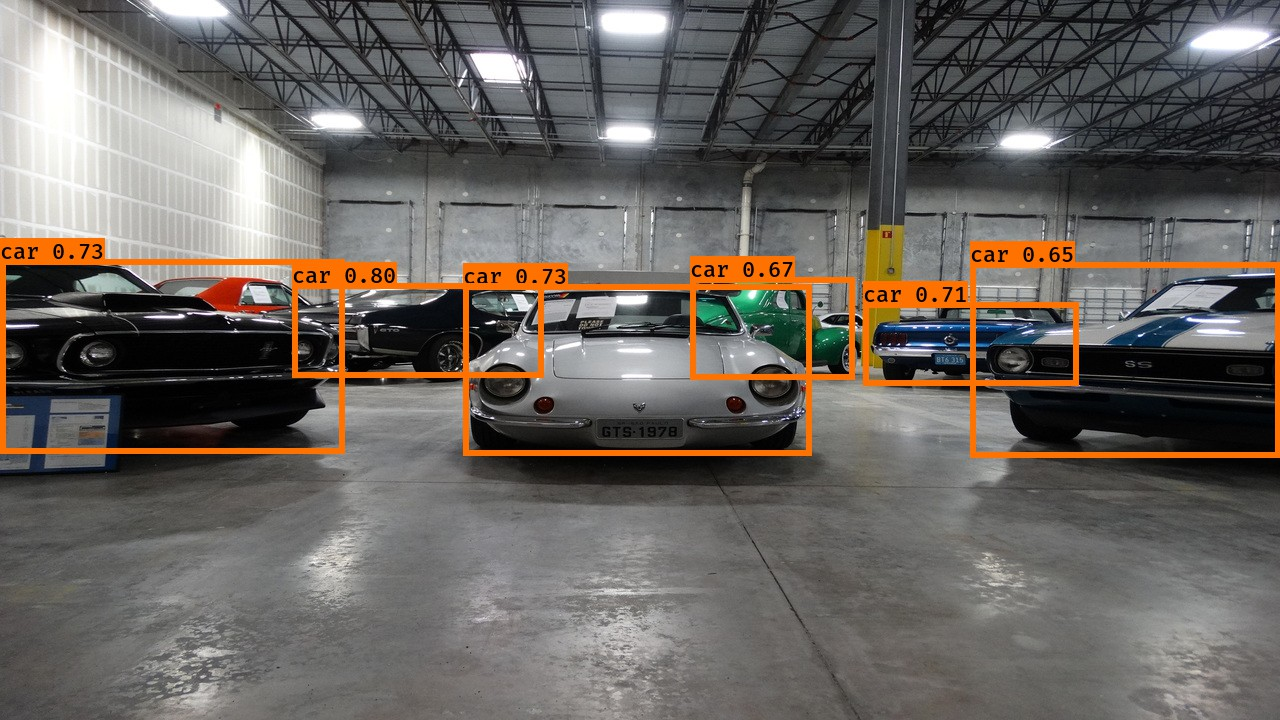
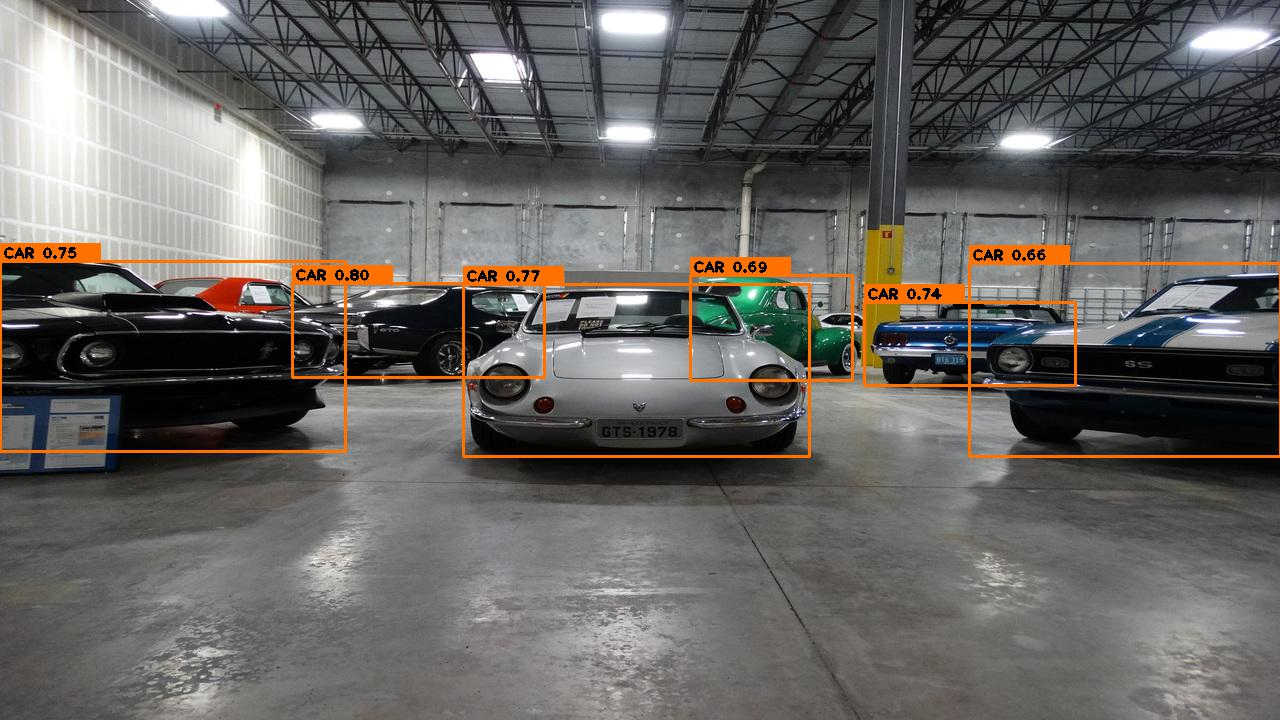
fixes cv2 image dims bug

Changed region(s): [[0.0, 0.3056, 1.0, 0.6417]]

diff --git a/main.py b/main.py
@@ -10,26 +10,18 @@ import numpy as np
 import tensorflow as tf
 import scipy.misc as misc
 
-from multiprocessing.dummy import Pool
-from PIL import Image, ImageDraw, ImageFont
-
 # local imports
 from utils import (
     read_classes, 
     read_anchors, 
-    generate_colors, 
-    preprocess_image, 
-    draw_boxes, 
+    generate_colors,
     scale_boxes
 )
 
 # imports from `yad2k` project
 from yad2k.models.keras_yolo import (
     yolo_head, 
-    yolo_boxes_to_corners, 
-    preprocess_true_boxes, 
-    yolo_loss, 
-    yolo_body
+    yolo_boxes_to_corners
 )
 
 @click.command()
@@ -93,33 +85,46 @@ def webcam_realtime_object_detector(yolo=None):
     
     while vc.isOpened():
         _, frame = vc.read()
-        image = frame
-        image  = yolo.run_yolo_detection(image)
-        key = cv2.waitKey(10)
-        cv2.imshow('detector', image)
+        frame  = yolo.run_yolo_detection(frame)
+        
+        key = cv2.waitKey(5)
+        cv2.imshow('detector', frame)
+
         if key == 27: # exit on ESC
             logging.info('exiting')
             break
+
     logging.info('destroying detector window')
     cv2.destroyWindow('detector')
 
-def draw_boxes_cv2(image, scores, boxes, classes, class_names):
+def draw_boxes_cv2(image, scores, boxes, classes, class_names, colors):
+    image_shape = list(reversed(image.shape[:-1]))
     for i, c in reversed(list(enumerate(classes))):
         predicted_class = class_names[c]
         box = boxes[i]
         score = scores[i]
         label = '{} {:.2f}'.format(predicted_class, score)
+        label = label.upper()
 
         top, left, bottom, right = box
         top = max(0, np.floor(top + 0.5).astype('int32'))
         left = max(0, np.floor(left + 0.5).astype('int32'))
-        bottom = min(image.shape[1], np.floor(bottom + 0.5).astype('int32'))
-        right = min(image.shape[0], np.floor(right + 0.5).astype('int32'))
+        bottom = min(image_shape[1], np.floor(bottom + 0.5).astype('int32'))
+        right = min(image_shape[0], np.floor(right + 0.5).astype('int32'))
         print(label, (left, top), (right, bottom))
+    
+        text_size = cv2.getTextSize(label, cv2.FONT_HERSHEY_PLAIN, 1.3, 1)
 
-        cv2.rectangle(image, (left, top), (right, bottom), (0, 0, 255), 2)
-        cv2.putText(image, label, 
-                (left, top - 10), cv2.FONT_HERSHEY_PLAIN, 1, (0, 0, 255), 2)
+        cv2.rectangle(image, (left, top), (right, bottom), colors[c], 2)
+        cv2.rectangle(image, (left, top - text_size[0][1] - 5), (left + text_size[0][0] + 3, top), colors[c], cv2.FILLED)
+        cv2.putText(image, label, (left + 3, top - 3), cv2.FONT_HERSHEY_PLAIN, 1, (0, 0, 0), 2)
+
+def preprocess_image_cv2(image, dims):
+    resized_image = cv2.resize(image, dims, interpolation=cv2.INTER_CUBIC)
+    image_data = np.array(resized_image, dtype='float32')
+    image_data /= 255.
+    image_data = np.expand_dims(image_data, 0)  # Add batch dimension.
+    return image_data
 
 class YOLO():
     """YOLOv2 real-time object detection using pre-trained model.
@@ -143,6 +148,7 @@ class YOLO():
         self._class_names = class_names
         self._anchors = anchors
         self._dims = dims
+        self._colors = generate_colors(self._class_names)
         self._sess = K.get_session()
         self._model_input_dims = (608, 608)
         self._construct_graph()
@@ -258,13 +264,9 @@ class YOLO():
         Args:
             image_path (str):
                 Path to image for detection.
-
-        Returns:
-            numpy.ndarray:
-                Output image data after detection
-                and drawing bounding boxes over it.
         """
-        image, image_data = preprocess_image(image_path, self._model_input_dims)
+        image = misc.imread(image_path)
+        image_data = preprocess_image_cv2(image, self._model_input_dims)
         # Run the session with the correct tensors and choose the correct placeholders in the feed_dict.
         # Need to use feed_dict={yolo_model.input: ... , K.learning_phase(): 0})
         out_scores, out_boxes, out_classes = self._sess.run([self._scores, self._boxes, self._classes], 
@@ -273,11 +275,8 @@ class YOLO():
         image_name = os.path.split(image_path)[-1]
         logging.info('Found {} objects belonging to known classes'.format(len(out_boxes)))
         
-        colors = generate_colors(self._class_names)
-        draw_boxes(image, out_scores, out_boxes, out_classes, self._class_names, colors)
-        image.save(os.path.join('images/out', image_name), quality=90)
-        
-        return image
+        draw_boxes_cv2(image, out_scores, out_boxes, out_classes, self._class_names, self._colors)
+        misc.imsave(os.path.join('images/out', image_name), image)
 
     def run_yolo_detection(self, frame):
         """Detects objects in real-time using YOLOv2.
@@ -292,18 +291,13 @@ class YOLO():
                 Output frame data after detection
                 and drawing bounding boxes over it.
         """
-        resized_image = cv2.resize(frame, self._model_input_dims, interpolation=cv2.INTER_CUBIC)
-        image_data = np.array(resized_image, dtype='float32')
-        image_data /= 255.
-        image_data = np.expand_dims(image_data, 0)  # Add batch dimension.
-        
+        image_data = preprocess_image_cv2(frame, self._model_input_dims)
         # Run the session with the correct tensors and choose the correct placeholders in the feed_dict.
         # Need to use feed_dict={yolo_model.input: ... , K.learning_phase(): 0})
         out_scores, out_boxes, out_classes = self._sess.run([self._scores, self._boxes, self._classes], 
                                                     feed_dict={self._model.input: image_data, 
                                                                 K.learning_phase(): 0})
-        logging.info('Found {} objects belonging to known classes'.format(len(out_boxes)))
-        draw_boxes_cv2(frame, out_scores, out_boxes, out_classes, self._class_names)
+        draw_boxes_cv2(frame, out_scores, out_boxes, out_classes, self._class_names, self._colors)
         
         return frame
 

diff --git a/utils.py b/utils.py
@@ -36,43 +36,44 @@ def scale_boxes(boxes, image_shape):
     boxes = boxes * image_dims
     return boxes
 
-def preprocess_image(image_path, model_image_dims=(608, 608)):
-    image = Image.open(image_path)
-    resized_image = image.resize(tuple(reversed(model_image_dims)), Image.BICUBIC)
-    image_data = np.array(resized_image, dtype='float32')
-    image_data /= 255.
-    image_data = np.expand_dims(image_data, 0)  # Add batch dimension.
-    return image, image_data
+# def preprocess_image_pil(image_path, model_image_dims=(608, 608)):
+#     image = Image.open(image_path)
+#     resized_image = image.resize(tuple(reversed(model_image_dims)), Image.BICUBIC)
+#     image_data = np.array(resized_image, dtype='float32')
+#     image_data /= 255.
+#     image_data = np.expand_dims(image_data, 0)  # Add batch dimension.
+#     return image, image_data
 
-def draw_boxes(image, out_scores, out_boxes, out_classes, class_names, colors):
-    font = ImageFont.truetype(font='font/FiraMono-Medium.otf',size=np.floor(3e-2 * image.size[1] + 0.5).astype('int32'))
-    thickness = (image.size[0] + image.size[1]) // 300
+# def draw_boxes(image, out_scores, out_boxes, out_classes, class_names, colors):
+#     print(image.size)
+#     font = ImageFont.truetype(font='font/FiraMono-Medium.otf',size=np.floor(3e-2 * image.size[1] + 0.5).astype('int32'))
+#     thickness = (image.size[0] + image.size[1]) // 300
 
-    for i, c in reversed(list(enumerate(out_classes))):
-        predicted_class = class_names[c]
-        box = out_boxes[i]
-        score = out_scores[i]
+#     for i, c in reversed(list(enumerate(out_classes))):
+#         predicted_class = class_names[c]
+#         box = out_boxes[i]
+#         score = out_scores[i]
 
-        label = '{} {:.2f}'.format(predicted_class, score)
+#         label = '{} {:.2f}'.format(predicted_class, score)
 
-        draw = ImageDraw.Draw(image)
-        label_size = draw.textsize(label, font)
+#         draw = ImageDraw.Draw(image)
+#         label_size = draw.textsize(label, font)
 
-        top, left, bottom, right = box
-        top = max(0, np.floor(top + 0.5).astype('int32'))
-        left = max(0, np.floor(left + 0.5).astype('int32'))
-        bottom = min(image.size[1], np.floor(bottom + 0.5).astype('int32'))
-        right = min(image.size[0], np.floor(right + 0.5).astype('int32'))
-        print(label, (left, top), (right, bottom))
+#         top, left, bottom, right = box
+#         top = max(0, np.floor(top + 0.5).astype('int32'))
+#         left = max(0, np.floor(left + 0.5).astype('int32'))
+#         bottom = min(image.size[1], np.floor(bottom + 0.5).astype('int32'))
+#         right = min(image.size[0], np.floor(right + 0.5).astype('int32'))
+#         print(label, (left, top), (right, bottom))
 
-        if top - label_size[1] >= 0:
-            text_origin = np.array([left, top - label_size[1]])
-        else:
-            text_origin = np.array([left, top + 1])
+#         if top - label_size[1] >= 0:
+#             text_origin = np.array([left, top - label_size[1]])
+#         else:
+#             text_origin = np.array([left, top + 1])
 
-        # My kingdom for a good redistributable image drawing library.
-        for i in range(thickness):
-            draw.rectangle([left + i, top + i, right - i, bottom - i], outline=colors[c])
-        draw.rectangle([tuple(text_origin), tuple(text_origin + label_size)], fill=colors[c])
-        draw.text(text_origin, label, fill=(0, 0, 0), font=font)
-        del draw
+#         # My kingdom for a good redistributable image drawing library.
+#         for i in range(thickness):
+#             draw.rectangle([left + i, top + i, right - i, bottom - i], outline=colors[c])
+#         draw.rectangle([tuple(text_origin), tuple(text_origin + label_size)], fill=colors[c])
+#         draw.text(text_origin, label, fill=(0, 0, 0), font=font)
+#         del draw

diff --git a/README.md b/README.md
@@ -2,7 +2,9 @@
 
 Real-time Object Detection using YOLO algorithm. You only look once (YOLO) is a state-of-the-art, real-time object detection system that is extremely fast and accurate. You can read more about it [here](https://pjreddie.com/darknet/yolo/).
 
-![YOLOv2](./images/yolo.jpg)
+<div align="center">
+   <img src="./images/yolo.jpg" width=500 height=370>
+</div>
 
 ## Getting Started
 
@@ -33,7 +35,7 @@ Once you have the pre-trained model `yolo_model.h5`, move it over to `model_data
 python main.py --realtime
 ```
 
-You can also run the detection on images, all you need to do is provide the path of the image:
+You can also run the detection on images, all you need to do is provide the path of the image (results in `images/out/`):
 
 ```bash
 python main.py --image-path images/test/cars.jpg
